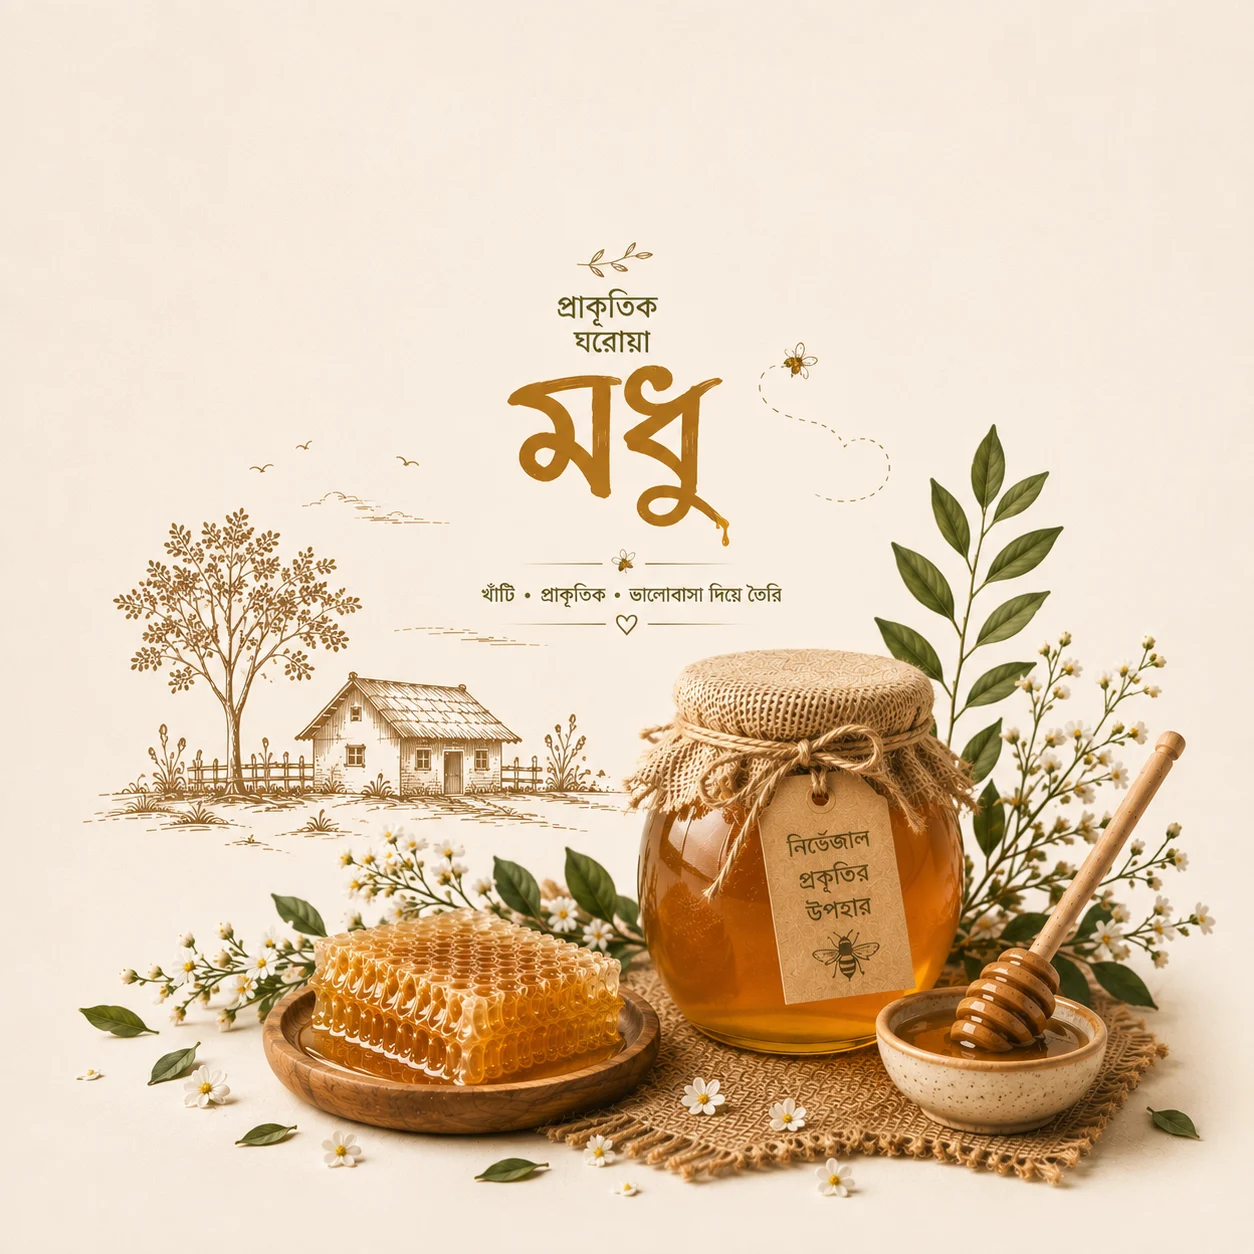
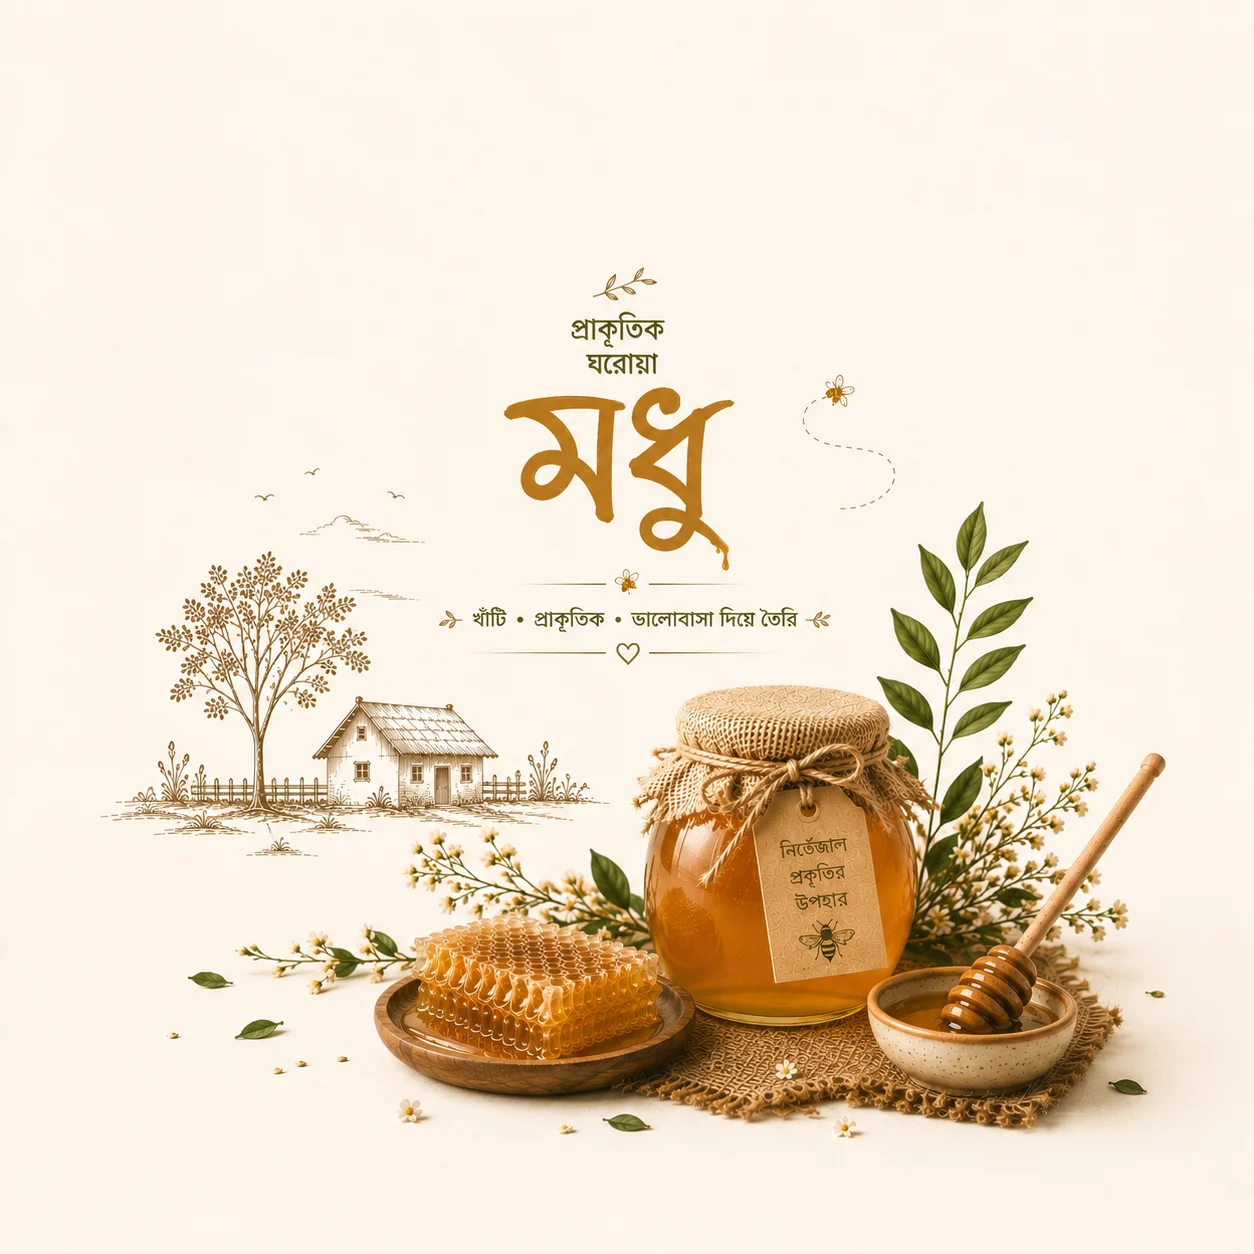
feat: update honey category image (webp) + flush mobile category scroll to edges

diff --git a/client/src/pages/home.tsx b/client/src/pages/home.tsx
@@ -400,7 +400,7 @@ export default function Home() {
             whileInView={{ opacity: 1, y: 0 }}
             viewport={{ once: true, margin: "-80px" }}
             transition={{ duration: 0.6, ease: [0.25, 0.1, 0.25, 1], delay: 0.05 }}
-            className="no-scrollbar mt-10 flex snap-x snap-mandatory gap-4 overflow-x-auto pb-2 sm:mx-auto sm:max-w-[820px] sm:grid sm:grid-cols-4 sm:gap-x-6 sm:gap-y-8 sm:overflow-visible sm:pb-0"
+            className="no-scrollbar -mx-4 mt-10 flex snap-x snap-mandatory gap-4 overflow-x-auto pb-2 sm:mx-auto sm:max-w-[820px] sm:grid sm:grid-cols-4 sm:gap-x-6 sm:gap-y-8 sm:overflow-visible sm:pb-0"
           >
             {categories.map(({ label, image }) => (
               <Link
